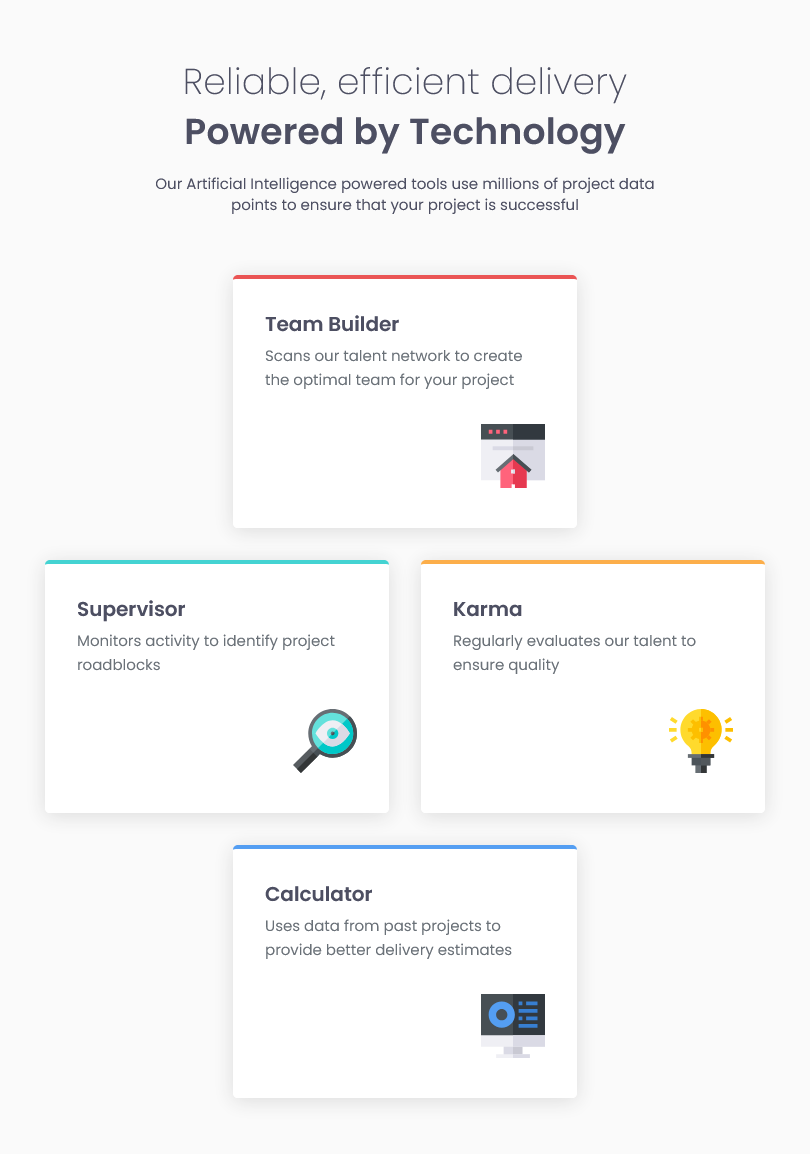
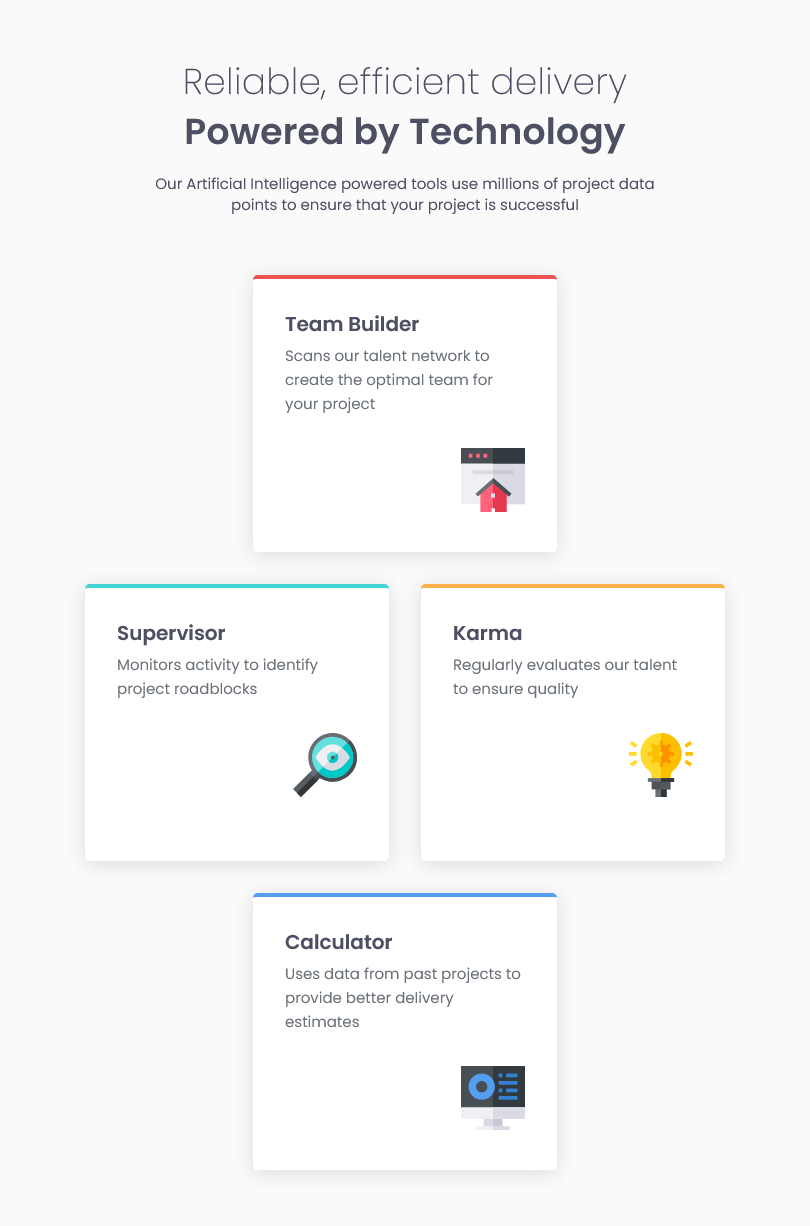
add responsiveness for desktop screens

diff --git a/style.css b/style.css
@@ -124,6 +124,7 @@ main {
     gap: var(--space-lg);
 }
 
+/* Card */
 .card {
     padding: var(--space-lg);
     background-color: var(--neutral-white);
@@ -165,38 +166,38 @@ main {
     border-top: .3rem solid var(--primary-blue);
 }
 
-@media (min-width: 48rem) {
-
+/* Media Queries */
+@media (min-width: 48rem) { /* Tablet */
     main {
-        min-width: 45rem;
+        min-width: 40rem;
         display: grid;
-        gap: 2rem;
-        grid-template-columns: 1fr 1fr 4.125rem 4.125rem 1fr 1fr;
+        grid-template-columns: 1fr 1fr;
         grid-template-rows: 1fr 1fr 1fr;
+        justify-content: center;
     }
 
     .card {
-        max-width: 21.5rem;
+        max-width: 19rem;
     }
 
     .team-builder {
-        grid-column: 2 / 6;
+        grid-column: 1 / 3;
         grid-row: 1;
         justify-self: center;
     }
 
     .supervisor {
-        grid-column: 1 / 4;
+        grid-column: 1;
         grid-row: 2;
     }
 
     .karma {
-        grid-column: 4 / 7;
+        grid-column: 2;
         grid-row: 2;
     }
-
+    
     .calculator {
-        grid-column: 2 / 6;
+        grid-column: 1 / 3;
         grid-row: 3;
         justify-self: center;
     }
@@ -215,5 +216,43 @@ main {
 
     .body-text {
         font-size: var(--font-sm);
+    }
+}
+
+@media (min-width: 80rem) { /* Desktop */
+    main {
+        min-width: 64rem;
+        display: grid;
+        grid-template-columns: 1fr 1fr 1fr;
+        grid-template-rows: 1fr;
+        justify-content: center;
+    }
+
+    .card {
+        max-width: 32rem;
+    }
+
+    .supervisor {
+        grid-column: 1;
+        grid-row: 1 / 3;
+        align-self: center;
+    }
+
+    .team-builder {
+        grid-column: 2;
+    }
+
+    .karma {
+        grid-column: 2;
+    }
+
+    .calculator {
+        grid-column: 3;
+        grid-row: 1 / 3;
+        align-self: center;
+    }
+
+    .body-text {
+        font-size: var(--font-xs);
     }
 }

diff --git a/index.html b/index.html
@@ -20,7 +20,7 @@
   </header>
 
   <main>
-    <!-- Supervisor -->
+
     <article class="card supervisor">
       <article class="card-body">
         <h2 class="section-title">Supervisor</h2>
